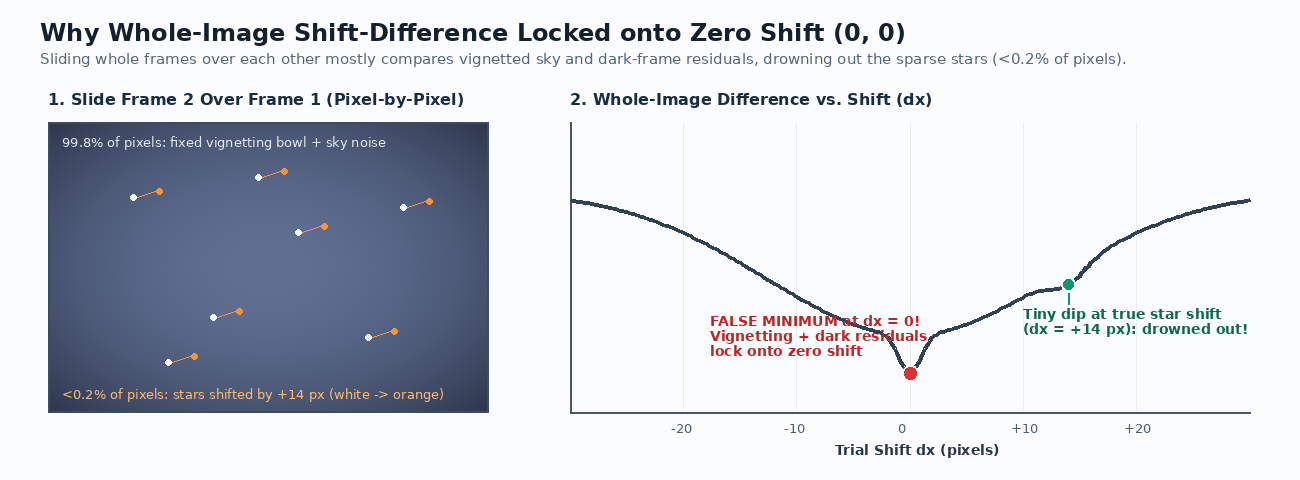
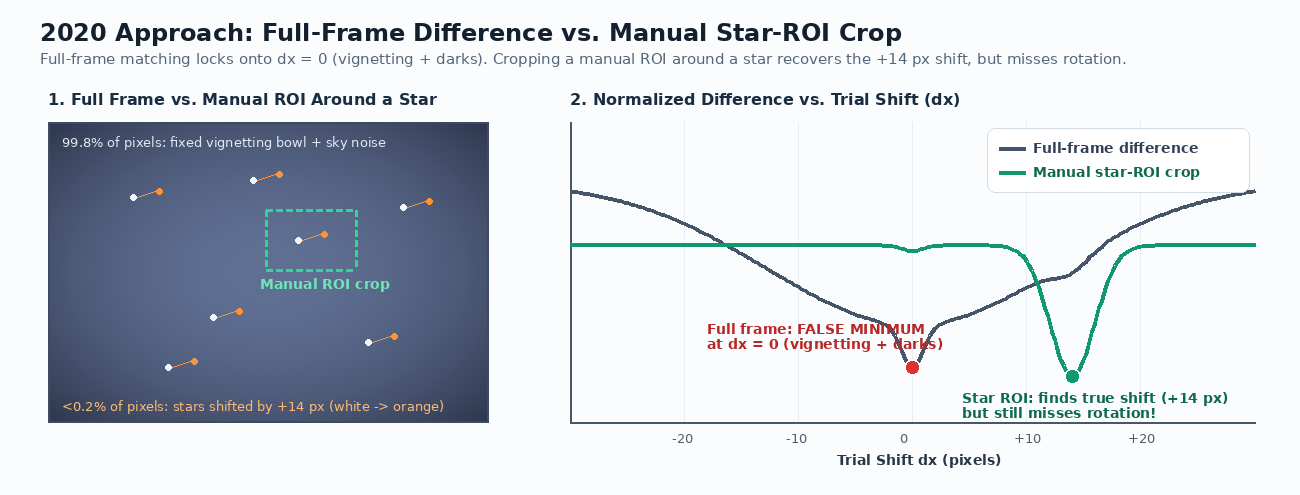
Introduce manual star-ROI crop up front and add ROI curve to 2020 shift-difference figure

diff --git a/_posts/2026-11-24-hill-climbing-an-astro-stacker-with-carbon.md b/_posts/2026-11-24-hill-climbing-an-astro-stacker-with-carbon.md
@@ -22,19 +22,19 @@ image: /images/2026-11-24-astro-stacker-m57-comparison.png
 
 In 2020, I took 62 raw `.CR2` exposures on a Canon EOS 1100D (21 of the Ring Nebula M57, 21 of the Andromeda Galaxy M31, and 20 capped dark frames) and tried to write my own stacker in Python.
 
-The original idea was simple: subtract the average dark frame, then slide pairs of images over each other and measure their **normalized absolute difference** (and full-frame cross-correlation). Wherever that difference hit a minimum was where I expected the frames to line up.
+The original idea was simple: subtract the average dark frame, then slide pairs of images over each other and measure their **normalized absolute difference** (and cross-correlation). Wherever that difference hit a minimum was where I expected the frames to line up. Because stars occupy less than `0.2%` of the frame and empty sky noise dominates the full image, I also had to manually crop a **region of interest (ROI)** around bright stars to run those correlations on, moving closer to star-based registration, though still manual and limited to simple `(x, y)` shifts.
 
 <figure>
-  <img src="/images/2026-11-26-astro-stacker-2020-shift-diff.png" alt="Two-panel diagram: left panel shows two vignetted exposures with sparse stars shifted by +14 px; right panel plots whole-image difference vs shift dx, showing a deep false minimum at dx = 0 caused by fixed vignetting and dark residuals drowning out the tiny star dip at +14 px">
-  <figcaption>Why whole-image shift-and-difference struggled: 99.8% of the frame is vignetted sky and dark-frame residuals locked to the camera, creating a deep false minimum at zero shift (dx = 0) that drowns out the tiny dip from the actual stars.</figcaption>
+  <img src="/images/2026-11-26-astro-stacker-2020-shift-diff.png" alt="Two-panel diagram: left panel shows two vignetted exposures with sparse stars shifted by +14 px and a dashed green manual ROI crop box around one bright star; right panel compares full-frame difference (trapped in a false minimum at dx = 0 from vignetting and dark residuals) against the manual star-ROI curve (finding the true +14 px shift, though still missing rotation)">
+  <figcaption>Full-frame difference vs. manual star-ROI crop: on the full image, fixed vignetting and dark-frame residuals create a deep false minimum at dx = 0. Cropping a manual ROI around a bright star recovers the true +14 px shift, but still misses full-frame rotation and calibration.</figcaption>
 </figure>
 
-In practice, that simple approach ran into several conceptual problems:
+In practice, that 2020 approach still ran into several conceptual problems:
 
-- **No rotation:** Over a 10-minute session, slight polar misalignment slowly rotates the sky across the sensor (on Andromeda, corner stars rotate by ~2.5 pixels). Pure `(x, y)` shifts can't fix that. *(And yes, the new C++ stacker does account for rotation!)*
+- **No rotation:** Over a 10-minute session, slight polar misalignment slowly rotates the sky across the sensor (on Andromeda, corner stars rotate by ~2.5 pixels). Pure `(x, y)` shifts, even inside a cropped ROI, can't fix that. *(And yes, the new C++ stacker does account for rotation!)*
 - **No flat field (vignetting & dust motes):** Telescope optics darken the corners by ~32% and sensor dust casts dark donut shadows. Because those patterns stay fixed on the camera, whole-image comparison strongly prefers *zero shift* `(0, 0)` instead of following the drifting stars.
 - **Temperature drift:** The camera cooled outdoors from `34 °C` at the start of the session down to `18 °C` by the time I took the dark frames. Because silicon dark current roughly doubles every `6 °C`, subtracting a cooler master dark left hundreds of bright "warm pixels" behind.
-- **Empty sky dominates whole-image matching:** Stars occupy less than `0.2%` of the 12-megapixel sensor. Correlating the whole image mostly correlates sky noise, vignetting, and leftover dark-frame error. To work around that in 2020, I had to manually crop a **region of interest (ROI)** (or a few small patches around bright stars) to run correlations on. Focusing on stars was actually moving closer to the standard star-based method we ended up using, except it was still manual and missed key pieces like detecting field rotation across the full frame, sub-pixel resampling, and thermal/flat calibration.
+- **Empty sky dominates whole-image matching:** With stars covering less than `0.2%` of the 12-megapixel sensor, full-frame correlation mostly compares sky noise, vignetting, and leftover dark-frame error, forcing the manual ROI workaround above.
 - **Real-world file & mount quirks:** The mount's worm gear reversed drift direction mid-session, and 5 of the `.CR2` files had corrupted bitstreams.
 
 ---
